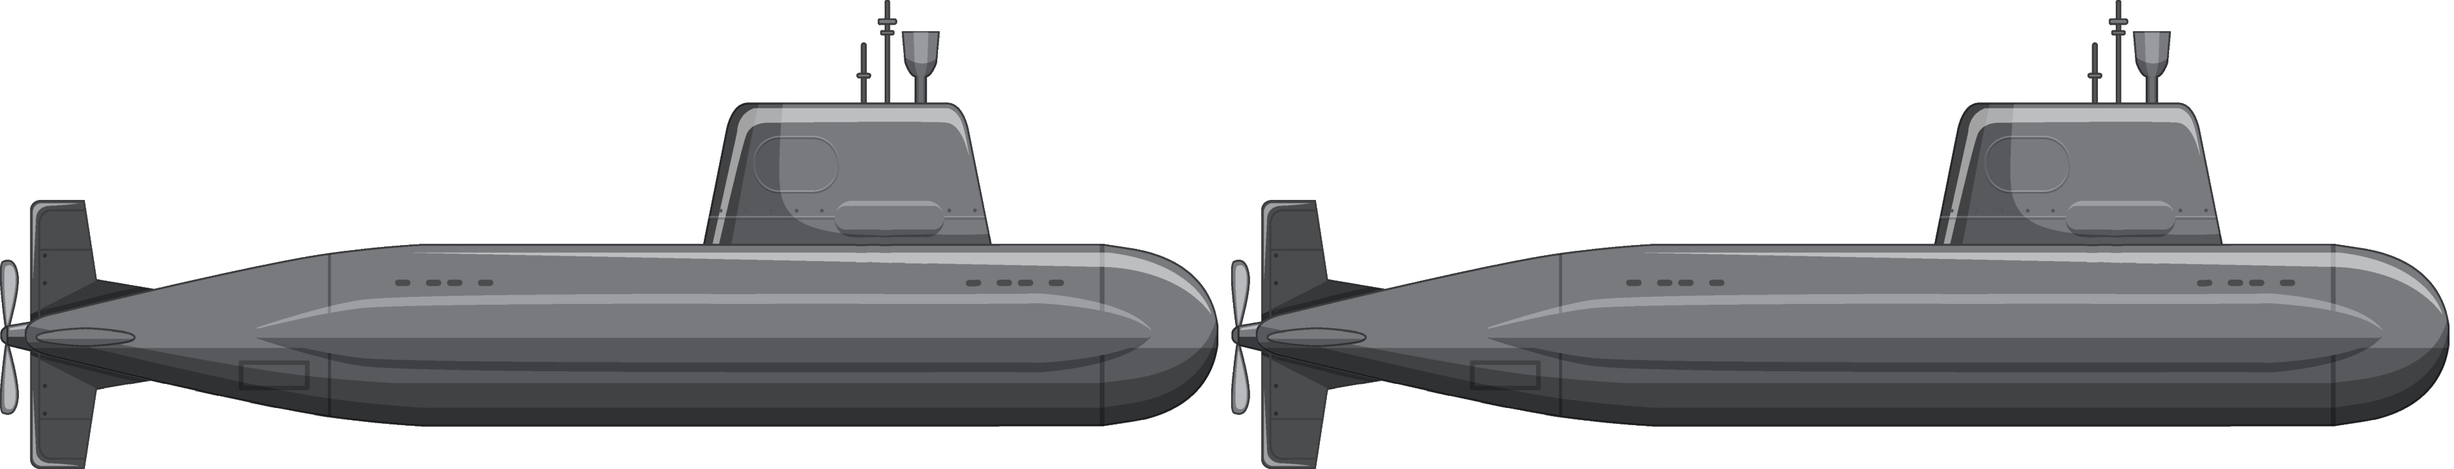
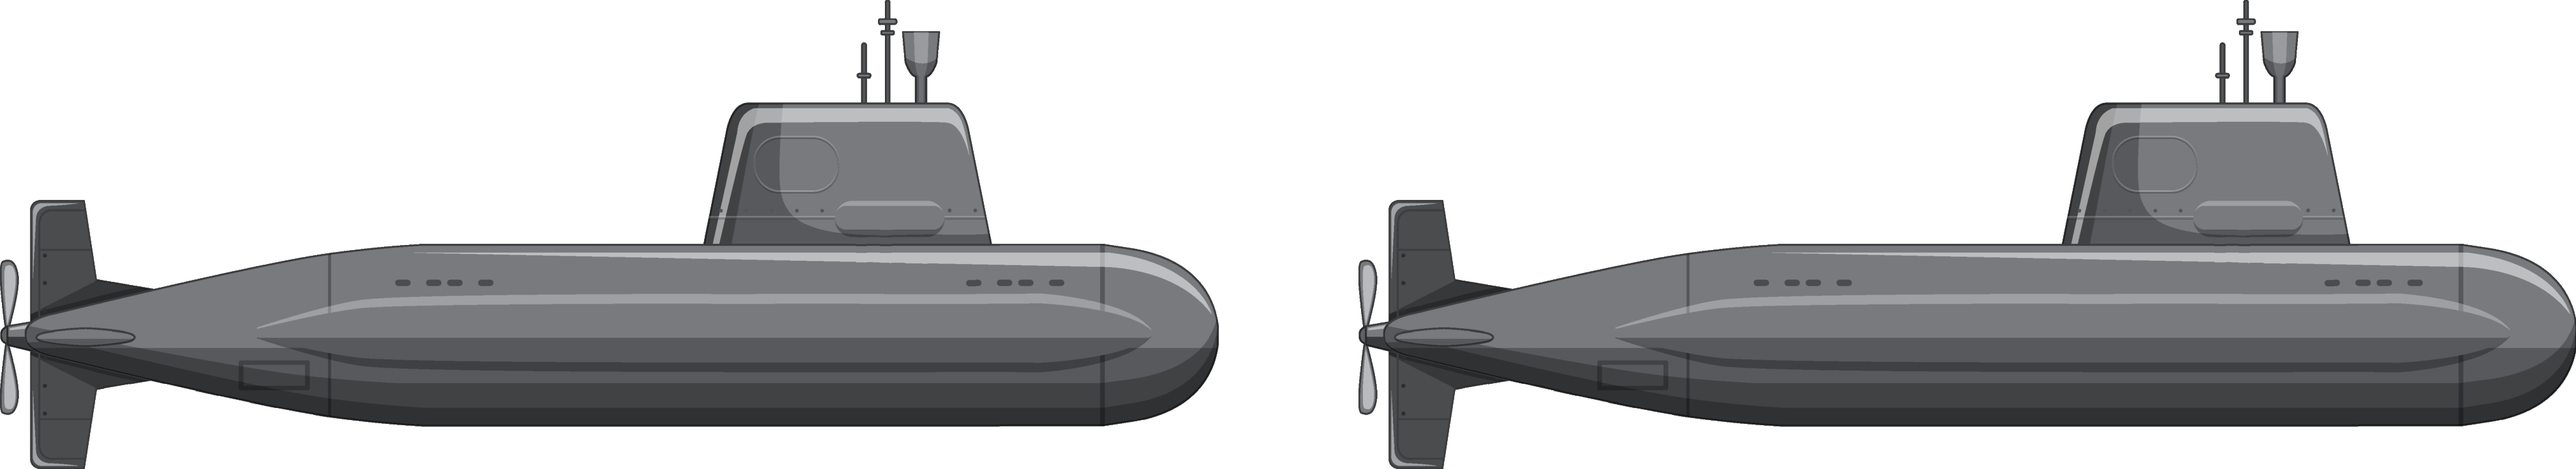
Modified lives images; renamed enemy class to submarine; moved player to the foreground

diff --git a/Assets/Scripts/Enemy/Enemy_SubRam1.cs b/Assets/Scripts/Enemy/Enemy_SubRam1.cs
@@ -1,6 +1,6 @@
 using UnityEngine;
 
-public class Enemy_FishRam1 : Enemy
+public class Enemy_SubRam1 : Enemy
 {
     [SerializeField]
     private Transform target;
@@ -37,14 +37,15 @@ public class Enemy_FishRam1 : Enemy
     {
         if (other.tag == "Player")
         {
-                player = other.transform.GetComponent<Player>();
-                if (player != null)
-                {
-                    player.DamagePlayer();
-                }
-                transform.GetChild(0).gameObject.SetActive(false);
-                lockRotation = true;
-                audioSource.clip = explosionSoundClip;
-                StartCoroutine(AnimationRoutine());
+            player = other.transform.GetComponent<Player>();
+            if (player != null)
+            {
+                player.DamagePlayer();
+            }
+            transform.GetChild(0).gameObject.SetActive(false);
+            lockRotation = true;
+            audioSource.clip = explosionSoundClip;
+            StartCoroutine(AnimationRoutine());
         }
+    }
 }
